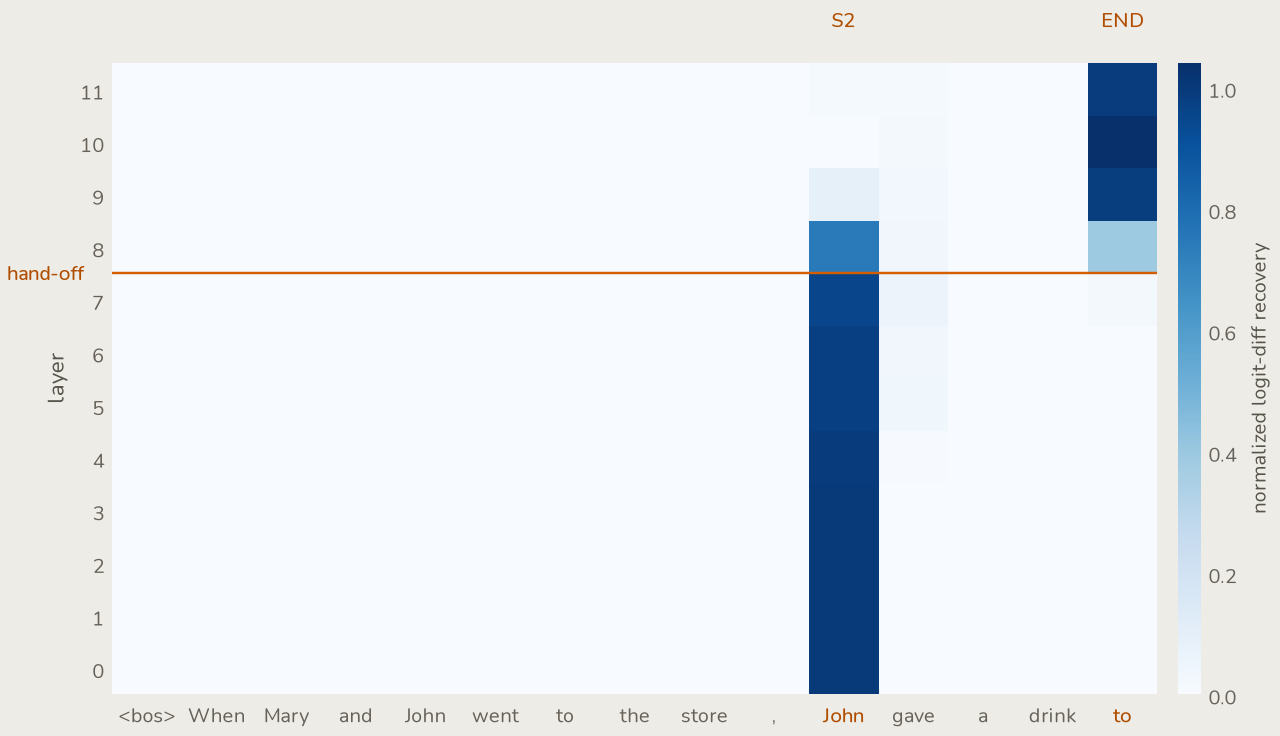
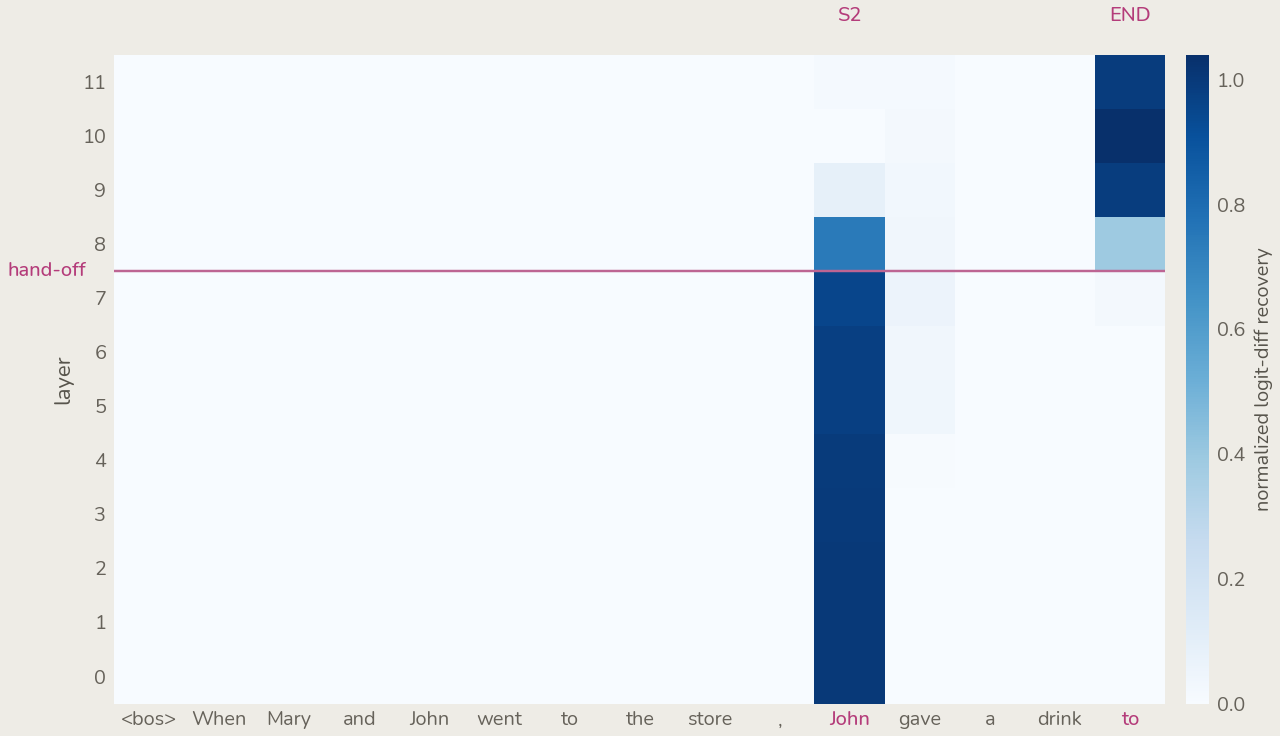
feat(site): the accent becomes reddish purple, figures and all
--accent #d55e00 -> #bd6593, --accent-ink #b04d00 -> #b43c7a, and the fourteen
figures re-exported in the same commit so the token and the plots never disagree.

THE ARGUMENT SURVIVES THE CHANGE. Vermillion was never chosen, it was
discovered: the figures already reached for it to mean "this is the finding", so
a hovered link and a highlighted bar were literally one colour. Moving the token
alone would have destroyed that and left a purple hover over vermillion plots.
So figures.mplstyle, all three plot.py palettes, the sequential ramp and every
PNG moved together. The accent is still the colour the figures use; only the hue
changed.

WHAT THE SEARCH ACTUALLY TAUGHT: contrast picks the accent's lightness, never
its hue. Pin any candidate to the two steps vermillion held — a mark near 3.3:1
on stone, text near 4.6:1 — and every hue lands at the same ~3.0:1 hover against
the ink. A DARK purple fails not for being purple but for being dark: aubergine
is 8.4:1 on stone and 1.65:1 against the ink it replaces, deep grape 1.28:1, so
the hover stops being a response and becomes a slightly bluer ink.

  --accent      #bd6593   3.26:1 on stone   4.23:1 vs ink   marks, rules, ticks
  --accent-ink  #b43c7a   4.60:1 on stone   3.00:1 vs ink   text, and no more

Both margins are as slim as vermillion's were. Do not lighten either.

THE PALETTE IS STILL OKABE-ITO. #bd6593 is a darkened reddish purple (#cc79a7
raw is 2.59:1 on stone and fails as a mark). Because the accent now holds that
[…]

diff --git a/styles.scss b/styles.scss
@@ -151,20 +151,44 @@ $grid-default-toc-mid-body-column-max: 40.706rem; // default-body − 50px
   // On stone the tertiary step is #66625a: 5.14:1.
 
   // ---- The accent -----------------------------------------------------------
-  // Not a new decision so much as a discovered one. Every figure on this site
-  // already reaches for the same colour when it needs to say "this is the
-  // finding": the copying-score bar, the annotation arrows, the S-inhibition
-  // boxes. That is Okabe-Ito vermillion, and it is the natural accent for a page
-  // whose grays are warm. Two steps because one cannot do both jobs: #d55e00 is
-  // 3.27:1 on stone (fine for marks, rules and 1px ticks — the 3:1 non-text
-  // bar — and for display type, but not for small text), #b04d00 is 4.55:1 and
-  // text-safe, just.
+  // REDDISH PURPLE, from 2026-08-20. It replaces Okabe-Ito vermillion
+  // (#d55e00 / #b04d00), which was not chosen so much as discovered: every
+  // figure already reached for it to say "this is the finding", so a hovered
+  // link and a highlighted bar were literally one colour. That argument is
+  // preserved rather than abandoned — the figures moved with the token, in the
+  // same commit, and the accent is STILL the colour the plots use. What changed
+  // is which Okabe-Ito colour holds the job.
   //
-  // Spending rule: the accent appears ONLY on interaction — link hover, figure
-  // hover, focus, the active TOC tick. At rest the page stays monochrome, so the
+  // Why this purple and not a dark one. A genuinely dark purple — aubergine
+  // #5b2a86, grape #4a2158 — measures 8-11:1 on stone, which puts it between
+  // secondary text (6.4:1) and ink (13.8:1). It stops being a response and
+  // becomes a slightly bluer ink: against the ink it replaces, grape is 1.28:1,
+  // a hover the eye cannot find. The accent's lightness band is fixed by the
+  // job; only the hue was ever free.
+  //
+  // Two steps because one cannot do both. #bd6593 is 3.26:1 on stone — fine for
+  // marks, rules and 1px ticks (the 3:1 non-text bar) and for display type, not
+  // for small text. #b43c7a is 4.60:1 and text-safe, with the same slim margin
+  // vermillion had: DO NOT LIGHTEN EITHER.
+  //
+  // It is a darkened Okabe-Ito reddish purple (#cc79a7 raw, which is only
+  // 2.59:1 on stone and fails as a mark). Because the accent now occupies that
+  // hue, #cc79a7 came OUT of the figure prop_cycle and vermillion took its
+  // slot — see design/figures.mplstyle. The palette is still Okabe-Ito
+  // throughout; two of its members swapped roles.
+  //
+  // One honest cost: under simulated protanopia the hover measures 2.31:1
+  // against the ink where vermillion managed 2.43:1. Marginally worse for
+  // red-blind readers, marginally better under deuteranopia's 3.37:1. Neither
+  // hue is the best available on that axis — indigo and olive both clear 3.0:1
+  // for both — and the accent is never the sole carrier of meaning, so this is
+  // recorded rather than treated as blocking.
+  //
+  // Spending rule, unchanged: the accent appears ONLY on interaction — link
+  // hover, figure hover, focus. At rest the page stays monochrome, so the
   // severity is intact and colour reads as a response rather than decoration.
-  --accent: #d55e00;
-  --accent-ink: #b04d00;
+  --accent: #bd6593;
+  --accent-ink: #b43c7a;
 
   --hover-fill: #e6e3dc;
   --measure-pad: 1.412rem; // 24px at calibration

diff --git a/assets/site/hero-plate.html b/assets/site/hero-plate.html
@@ -73,7 +73,7 @@
       var cs = getComputedStyle(plate);
       return {
         ink: cs.getPropertyValue("--gray-1200").trim() || "#21201c",
-        accent: cs.getPropertyValue("--accent").trim() || "#d55e00",
+        accent: cs.getPropertyValue("--accent").trim() || "#bd6593",
         gray: cs.getPropertyValue("--gray-1000").trim() || "#66625a"
       };
     }

diff --git a/posts/where-the-error-hides/figures/plot.py b/posts/where-the-error-hides/figures/plot.py
@@ -12,7 +12,7 @@ The rules are in `design/figures.mplstyle` and `design/direction.md`:
     for this column — so it downscaled at 0.43x against the other posts' 0.66x
     and its labels rendered visibly smaller than theirs on the same page.
   * NO IN-FIGURE TITLES. The caption is the title.
-  * ONE ACCENT. Vermillion #d55e00 means "this is the finding."
+  * ONE ACCENT. Reddish purple #bd6593 means "this is the finding."
   * COLORMAPS BY MEANING.
 
 WHAT CHANGED FROM THE MANUSCRIPT FIGURES, AND WHY.
@@ -78,8 +78,8 @@ TERTIARY = "#66625a"   # --gray-1000
 BORDER = "#aca99f"     # --gray-800
 RULE = "#d8d5cc"       # --gray-400
 PAGE = "#eeece6"       # --gray-100
-ACCENT = "#d55e00"     # marks
-ACCENT_INK = "#b04d00" # accent text (5.28:1)
+ACCENT = "#bd6593"     # marks (3.26:1 on stone)
+ACCENT_INK = "#b43c7a" # accent text (4.60:1)
 
 WIDTH = 8.0            # inches; 8.0 * 160dpi = 1280px. Never changes.
 
@@ -91,8 +91,12 @@ WIDTH = 8.0            # inches; 8.0 * 160dpi = 1280px. Never changes.
 # the one figure on the page that carries a colormap still belongs to the page:
 # page white through the accent to a deep burnt brown, lightness monotonic so it
 # survives grayscale printing and low-vision viewing.
+# Rebuilt on the accent's hue when the accent moved (2026-08-20). Lightness
+# falls monotonically from the page through the accent to near-black, so the
+# ramp still reads as one sequence in grayscale — the property that makes a
+# sequential colormap honest.
 WARM = LinearSegmentedColormap.from_list(
-    "site_warm", [PAGE, "#f6e3d0", "#eab583", "#d55e00", "#8f3a00", "#4a1d00"])
+    "site_plum", [PAGE, "#f4e2ec", "#ddaec6", "#bd6593", "#8e3762", "#4e1934"])
 
 # Anything drawn ON the colormap has to survive both ends of that ramp, and one
 # treatment does it: INK with a page-coloured stroke around it. Over the light

diff --git a/posts/induction-head/figures/plot.py b/posts/induction-head/figures/plot.py
@@ -11,7 +11,7 @@ The rules are in `design/figures.mplstyle` and `design/direction.md`:
     1128–2210px and displayed at one width, so the same 10pt label rendered
     between 8.1px and 15.9px depending on which figure you were looking at.
   * NO IN-FIGURE TITLES. The caption is the title.
-  * ONE ACCENT. Vermillion #d55e00 means "this is the finding" and appears at
+  * ONE ACCENT. Reddish purple #bd6593 means "this is the finding" and appears at
     most once per figure; everything else is the site's warm gray ramp. The old
     set spent four hues (blue, green, orange, vermillion) on decoration.
   * COLORMAPS BY MEANING. Attention weights are unsigned and live in [0, 1], so
@@ -61,8 +61,8 @@ TERTIARY = "#66625a"   # --gray-1000
 BORDER = "#aca99f"     # --gray-800
 RULE = "#d8d5cc"       # --gray-400
 PAGE = "#eeece6"       # --gray-100
-ACCENT = "#d55e00"     # marks
-ACCENT_INK = "#b04d00" # accent text (5.28:1)
+ACCENT = "#bd6593"     # marks (3.26:1 on stone)
+ACCENT_INK = "#b43c7a" # accent text (4.60:1)
 
 WIDTH = 8.0            # inches; 8.0 * 160dpi = 1280px. Never changes.
 # DejaVu Sans Mono ships with matplotlib, so it is named first: the figures then

diff --git a/posts/ioi-circuit/figures/plot.py b/posts/ioi-circuit/figures/plot.py
@@ -12,7 +12,7 @@ The rules being followed are in `design/figures.mplstyle` and `design/direction.
     figures read as a set; height is free to follow the content.
   * NO IN-FIGURE TITLES. The caption is the title. A bold headline inside the PNG
     competes with the h2 above it and duplicates the figcaption underneath.
-  * ONE ACCENT. Vermillion #d55e00 means "this is the finding" and appears at most
+  * ONE ACCENT. Reddish purple #bd6593 means "this is the finding" and appears at most
     once per figure. Everything else is the site's warm gray ramp. The previous
     set used four different highlight colours across six figures.
   * COLORMAPS BY MEANING. Signed quantities get a diverging map pinned to zero;
@@ -48,8 +48,8 @@ BORDER = "#aca99f"     # --gray-800
 RULE = "#d8d5cc"       # --gray-400
 SURFACE = "#e8e6df"    # --gray-200
 PAGE = "#eeece6"       # --gray-100
-ACCENT = "#d55e00"     # marks
-ACCENT_INK = "#b04d00" # accent text (5.28:1)
+ACCENT = "#bd6593"     # marks (3.26:1 on stone)
+ACCENT_INK = "#b43c7a" # accent text (4.60:1)
 
 WIDTH = 8.0            # inches; 8.0 * 160dpi = 1280px. Never changes.
 

diff --git a/design/direction.md b/design/direction.md
@@ -116,6 +116,12 @@ The principle that survived: **numbers are what an instrument shows; the moment 
 
 **Sections number themselves.** `counter-reset: section` on `main.content`, `counter-increment` on h2, rendered `decimal-leading-zero` in mono. Below 1200px the numeral sits inline ahead of the title; at ≥1200px it goes `position: absolute; left: -3.4rem` and hangs in the gutter, so the prose edge stays a clean vertical line and the numbers read as their own column down the page. The TOC carries a second, independent counter on `#TOC > ul > li` so the rail and the headings agree. Homepage is unaffected — the listing uses h3 and the hero headline is a `<p role="heading">`, so there are zero h2s on the index.
 
+> **Amended 2026-08-20 — the accent is REDDISH PURPLE, `#bd6593` marks / `#b43c7a` text.** The paragraph below still describes why the vermillion was right, and every word of its *reasoning* survives the change: the accent is still the colour the figures use for "this is the finding", because the figures moved in the same commit (`figures.mplstyle`, all three `plot.py`, the sequential ramp, and all fourteen PNGs re-exported). Only the hue moved.
+>
+> What the change taught, and it is the part worth keeping: **contrast picks the accent's lightness, never its hue.** Pin any candidate to the two steps vermillion held — a mark near 3.3:1 on stone, text near 4.6:1 — and every hue lands at the same ~3.0:1 hover against the ink. A *dark* purple fails not because it is purple but because it is dark: aubergine measures 8.4:1 on stone and 1.65:1 against the ink it replaces, so the hover stops being a response and becomes a slightly bluer ink. `#bd6593` is a darkened Okabe-Ito reddish purple (`#cc79a7` raw is 2.59:1 and fails as a mark); because the accent now holds that hue, `#cc79a7` left the figure `prop_cycle` and vermillion took its slot. The palette is still Okabe-Ito throughout — two members swapped roles.
+>
+> One recorded cost: under simulated protanopia the hover is 2.31:1 against the ink where vermillion managed 2.43:1; under deuteranopia 3.37:1 against 3.39:1. Indigo and olive both clear 3.0:1 on *both* axes and would be the choice if colour-vision were the only criterion. The accent is never the sole carrier of meaning, so this is logged rather than treated as blocking.
+
 **Accent — open decision #1, resolved: `#d55e00` / `--accent-ink: #b04d00`.** Not chosen so much as discovered. Every figure on this site already reaches for Okabe-Ito vermillion when it needs to say *this is the finding* — the copying-score bar, the DLA annotation, the S-inhibition boxes. It is warm, so it belongs on sand, and it makes a highlighted bar and a hovered link literally the same colour. Two steps because one can't do both jobs: `#d55e00` is 3.80:1 (fine for marks, 1px ticks and the 3:1 non-text bar, **not** for small text), `#b04d00` is 5.28:1 and safe for text.
 
 **Spending rule — the accent appears only on interaction.** Link hover underline, figure hover outline, `:focus-visible` ring. At rest the page is monochrome, so severity is intact and colour reads as a *response* rather than decoration. This is also the un-Emil move on motion: his hovers are colourless and instant; ours stay instant and gain colour.
